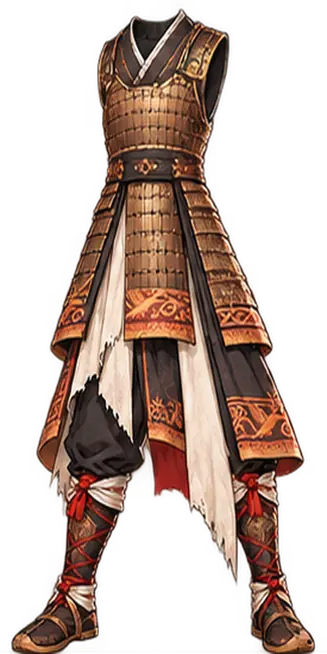
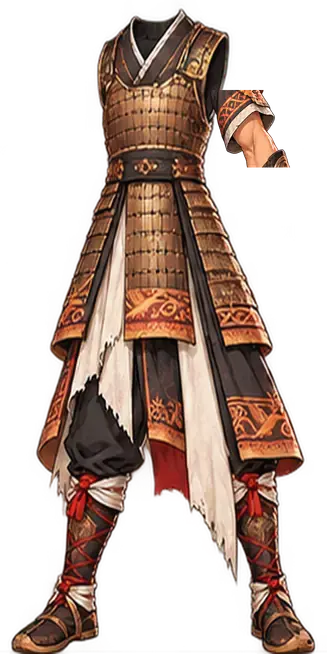
fix: dùng cấu trúc rig tướng sĩ đã ổn cho Nguyễn Bặc

Changed region(s): [[0.6422, 0.1223, 0.8869, 0.2752]]

diff --git a/tests/game/rigs.test.ts b/tests/game/rigs.test.ts
@@ -6,7 +6,6 @@ import { partsOf, partUrl, rigOf } from "../../src/app/game/stage/rigs";
 test("Nguyễn Bặc có đủ lớp WebP và hai tranh trong ngân sách 350 KB", () => {
   const rig = rigOf("nguyenBac");
   assert.ok(rig && rig.skeleton === "warrior");
-  assert.ok(rig.forearms);
   assert.equal(rig.poses?.cast?.name, "pose-cast");
   assert.equal(rig.poses?.ultimate?.name, "pose-ultimate");
   const names = partsOf(rig);
@@ -24,25 +23,20 @@ test("Nguyễn Bặc có đủ lớp WebP và hai tranh trong ngân sách 350 KB
 
 test("khớp Nguyễn Bặc nằm trong vùng chồng, kích thước texture khớp tọa độ rig", () => {
   const rig = rigOf("nguyenBac");
-  assert.ok(rig?.skeleton === "warrior" && rig.forearms);
+  assert.ok(rig?.skeleton === "warrior");
   const contains = (p: { x: number; y: number }, box: { x: number; y: number; w: number; h: number }) => {
     assert.ok(p.x > box.x && p.x < box.x + box.w && p.y > box.y && p.y < box.y + box.h,
       `khớp ${JSON.stringify(p)} ngoài lớp ${JSON.stringify(box)}`);
   };
-  for (const [upper, lower, shoulder, coverName] of [
-    [rig.parts.arm, rig.forearms.sword, rig.joints.shoulder, "shoulder"],
-    [rig.parts.armR, rig.forearms.free, rig.joints.elbowR, "shoulderR"],
-  ] as const) {
-    const cover = rig.covers.find((c) => c.name === coverName);
-    assert.ok(cover);
-    contains(shoulder, cover.box);
-    contains(shoulder, upper);
-    contains(lower.joint, upper);
-    contains(lower.joint, lower.box);
-  }
+  const cap = rig.covers.find((c) => c.name === "shoulder");
+  assert.ok(cap);
+  contains(rig.joints.shoulder, cap.box);
+  contains(rig.joints.elbowR, rig.parts.armR);
+  contains(rig.joints.elbowR, rig.parts.body);
+  contains(rig.joints.neck, rig.parts.head);
+  contains(rig.joints.neck, rig.parts.body);
   const boxes = [
     ...Object.entries(rig.parts),
-    ["forearm", rig.forearms.sword.box], ["forearmR", rig.forearms.free.box],
     ...rig.covers.map((c) => [c.name, c.box] as const),
   ] as const;
   for (const [name, box] of boxes) {

diff --git a/src/app/game/stage/warrior.ts b/src/app/game/stage/warrior.ts
@@ -49,16 +49,8 @@ export function warrior(
   cloth(false);
   const armR = L.joint(joints.elbowR.x, joints.elbowR.y, body);
   L.sprite(img("armR"), parts.armR, armR);
-  const freeForearm = rig.forearms
-    ? L.joint(rig.forearms.free.joint.x, rig.forearms.free.joint.y, armR)
-    : null;
-  if (freeForearm && rig.forearms) L.sprite(img("forearmR"), rig.forearms.free.box, freeForearm);
   const arm = L.joint(joints.shoulder.x, joints.shoulder.y, body);
-  const swordForearm = rig.forearms
-    ? L.joint(rig.forearms.sword.joint.x, rig.forearms.sword.joint.y, arm)
-    : null;
-  const grip = swordForearm ?? arm;
-  L.sprite(img("sword"), parts.sword, grip);
+  L.sprite(img("sword"), parts.sword, arm);
   // Hào quang dọc lưỡi kiếm, theo tay khi chém.
   const auras = Array.from({ length: 6 }, (_, i) => {
     const at = (i + 0.5) / 6;
@@ -68,15 +60,10 @@ export function warrior(
     s.blendMode = "add";
     s.position.set(blade[0].x + (blade[1].x - blade[0].x) * at, blade[0].y + (blade[1].y - blade[0].y) * at);
     s.scale.set(2.2);
-    grip.addChild(s);
+    arm.addChild(s);
     return s;
   });
   L.sprite(img("arm"), parts.arm, arm);
-  if (swordForearm && rig.forearms) {
-    // Cẳng tay phủ mép bắp tay và chuôi đao.
-    arm.addChild(swordForearm);
-    L.sprite(img("forearm"), rig.forearms.sword.box, swordForearm);
-  }
   for (const c of rig.covers) L.sprite(img(c.name), c.box, body);
   const head = L.joint(joints.neck.x, joints.neck.y, body);
   L.sprite(img("head"), parts.head, head);
@@ -243,8 +230,6 @@ export function warrior(
     shadow.alpha = 1 - 0.6 * ease(downT);
     arm.rotation = down ? 0.15 * ease(downT) : armRot;
     armR.rotation = armRRot;
-    if (swordForearm) swordForearm.rotation = down ? 0 : armRot * 0.12;
-    if (freeForearm) freeForearm.rotation = armRRot * 0.3;
     head.rotation = headRot;
     auras.forEach((s, i) => {
       s.alpha = down ? 0 : Math.max(0, aura * (0.7 + 0.3 * Math.sin(t * 5 + i)));

diff --git a/src/app/game/stage/rigs.ts b/src/app/game/stage/rigs.ts
@@ -98,11 +98,7 @@ export interface WarriorRig {
   readonly blade: readonly [Point, Point];
   readonly fxColor: number;
   readonly poses?: Readonly<Partial<Record<PoseKind, PoseArt>>>;
-  /** Cẳng tay rời: đao đi theo khuỷu tay, bắp tay vẫn xoay quanh vai. */
-  readonly forearms?: {
-    readonly sword: { readonly box: PartBox; readonly joint: Point };
-    readonly free: { readonly box: PartBox; readonly joint: Point };
-  };
+
 }
 
 /**
@@ -135,7 +131,6 @@ export function partsOf(rig: Rig): readonly string[] {
         "sword",
         "arm",
         "head",
-        ...(rig.forearms ? ["forearm", "forearmR"] : []),
         ...rig.cloth.map((c) => c.name),
         ...rig.covers.map((c) => c.name),
         ...Object.values(rig.poses ?? {}).map((p) => p.name),
@@ -293,17 +288,13 @@ const NGUYEN_BAC: WarriorRig = {
   parts: {
     body: { x: 340, y: 210, w: 654, h: 1308 },
     head: { x: 565, y: 30, w: 224, h: 273 },
-    arm: { x: 345, y: 400, w: 270, h: 146 },
-    armR: { x: 750, y: 390, w: 230, h: 156 },
+    arm: { x: 345, y: 400, w: 270, h: 410 },
+    armR: { x: 750, y: 505, w: 230, h: 326 },
     sword: { x: 55, y: 660, w: 402, h: 730 },
   },
-  forearms: {
-    sword: { box: { x: 345, y: 505, w: 270, h: 306 }, joint: { x: 495, y: 525 } },
-    free: { box: { x: 750, y: 505, w: 230, h: 326 }, joint: { x: 870, y: 525 } },
-  },
   joints: {
-    shoulder: { x: 550, y: 420 },
-    elbowR: { x: 800, y: 410 },
+    shoulder: { x: 550, y: 385 },
+    elbowR: { x: 870, y: 525 },
     neck: { x: 685, y: 280 },
   },
   cloth: [
